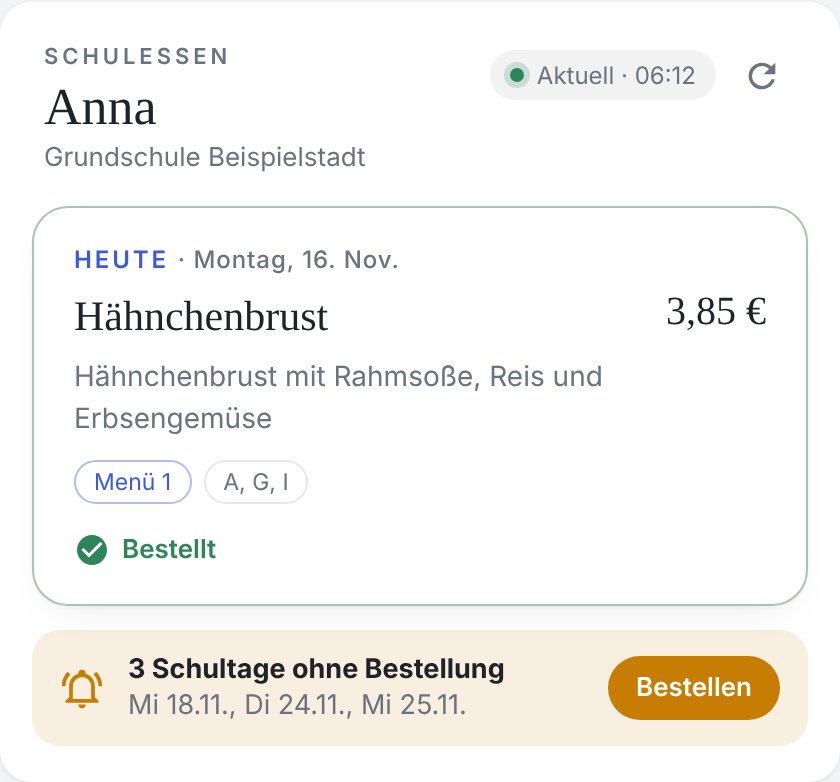
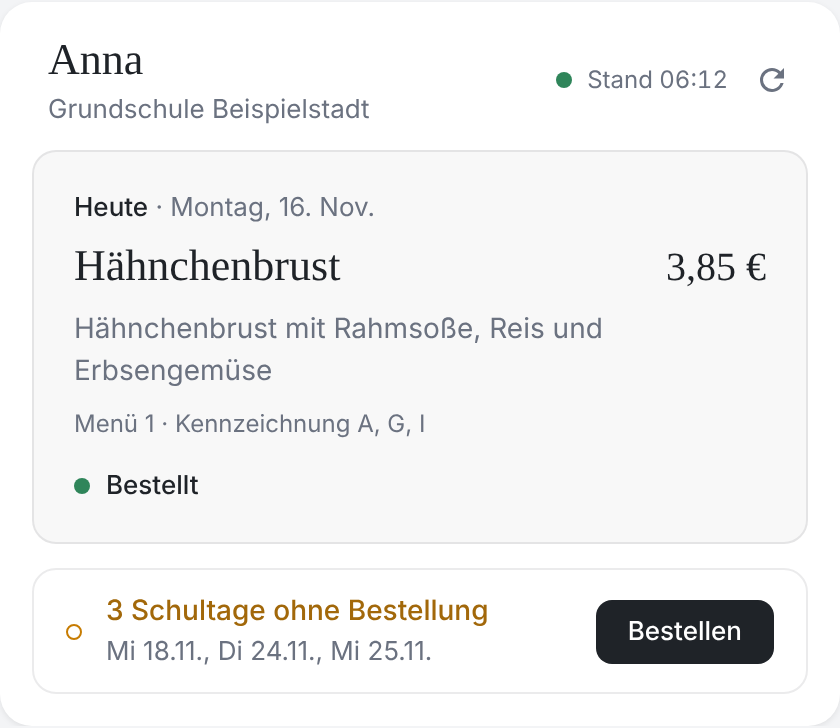
Karte überarbeitet: ruhigere Flächen, Status-Punkt pro Tag, keine Pillen und Großbuchstaben

diff --git a/custom_components/schulessen/www/schulessen-card.js b/custom_components/schulessen/www/schulessen-card.js
@@ -1,4 +1,4 @@
-/* Schulessen-Karte für Home Assistant (wird von den Schulessen-Integrationen mitgeliefert). */
+/* Schulessen-Karte für Home Assistant */
 (() => {
   const TAG = "schulessen-card";
   if (customElements.get(TAG)) return;
@@ -71,13 +71,8 @@
     if (tag.menues.some((m) => m.bestellt)) return "ok";
     return "offen";
   };
-  const STATUS = {
-    ok: ["Bestellt", "mdi:check-circle"],
-    offen: ["Nicht bestellt", "mdi:alert-circle"],
-    pause: ["Abbestellt", "mdi:minus-circle"],
-    frei: ["Feiertag", "mdi:party-popper"],
-    leer: ["Kein Speiseplan", "mdi:calendar-blank"],
-  };
+  const STATUS = { ok: "Bestellt", offen: "Nicht bestellt", pause: "Abbestellt", frei: "Feiertag", leer: "Kein Speiseplan", vorbei: "" };
+  const punkt = (k) => `<i class="dot ${k}" aria-hidden="true"></i>`;
 
   class SchulessenCard extends HTMLElement {
     constructor() {
@@ -94,7 +89,7 @@
     }
 
     setConfig(config) {
-      if (!config.entity) throw new Error("Bitte die Stand-Entität der Schulessen-Integration angeben (entity).");
+      if (!config.entity) throw new Error("entity fehlt: Stand-Sensor der Schulessen-Integration angeben");
       this._config = { variante: "voll", ...config };
       this._sig = "";
       if (this._hass) this._render();
@@ -128,7 +123,7 @@
       const b = this.shadowRoot.querySelector(".refresh");
       if (b) {
         b.classList.add("dreht");
-        setTimeout(() => b.classList.remove("dreht"), 1200);
+        setTimeout(() => b.classList.remove("dreht"), 600);
       }
     }
 
@@ -136,7 +131,7 @@
       if (!this._hass || !this._config) return;
       const st = this._hass.states[this._config.entity];
       if (!st) {
-        this.shadowRoot.innerHTML = `<ha-card><div class="leerhinweis">Entität ${esc(this._config.entity)} nicht gefunden.</div></ha-card>`;
+        this.shadowRoot.innerHTML = `<ha-card><div class="leerhinweis">Entität ${esc(this._config.entity)} nicht gefunden</div></ha-card>`;
         return;
       }
       const a = st.attributes;
@@ -168,14 +163,13 @@
         <ha-card class="${kompakt ? "kompakt" : ""}">
           <header>
             <div class="kopf">
-              <div class="kicker">Schulessen</div>
               <div class="name">${esc(titel)}</div>
               ${a.einrichtung ? `<div class="einrichtung">${esc(a.einrichtung)}</div>` : ""}
             </div>
             <div class="aktionen">
-              <span class="pille ${live ? "live" : "cache"}" title="${stand ? "Stand " + stand.toLocaleString("de-DE") : ""}">
-                <span class="punkt"></span>${live ? "Aktuell" : "Zwischenspeicher"}${
-        stand ? ` · ${String(stand.getHours()).padStart(2, "0")}:${String(stand.getMinutes()).padStart(2, "0")}` : ""
+              <span class="stand" title="${stand ? "Stand " + stand.toLocaleString("de-DE") : ""}">
+                ${punkt(live ? "live" : "cache")}${live ? "Stand" : "Zwischenspeicher"}${
+        stand ? ` ${String(stand.getHours()).padStart(2, "0")}:${String(stand.getMinutes()).padStart(2, "0")}` : ""
       }
               </span>
               <button class="refresh" title="Jetzt aktualisieren" aria-label="Aktualisieren"><ha-icon icon="mdi:refresh"></ha-icon></button>
@@ -185,7 +179,7 @@
           ${this._offenHtml(offen, a.portal, kompakt)}
           ${kompakt ? "" : this._wocheHtml(tage, heute)}
           ${kompakt ? "" : this._detailHtml(tage)}
-          ${!kompakt && a.portal ? `<footer><a class="link" href="${esc(a.portal)}" target="_blank" rel="noopener"><ha-icon icon="mdi:open-in-new"></ha-icon>Bestellportal öffnen</a></footer>` : ""}
+          ${!kompakt && a.portal ? `<footer><a class="link" href="${esc(a.portal)}" target="_blank" rel="noopener">Bestellportal öffnen<ha-icon icon="mdi:arrow-top-right"></ha-icon></a></footer>` : ""}
         </ha-card>`;
 
       this.shadowRoot.querySelector(".refresh")?.addEventListener("click", () => this._aktualisieren());
@@ -206,19 +200,17 @@
 
     _heroHtml(tag, label) {
       if (!tag) {
-        return `<section class="hero leer"><div class="label">Demnächst</div><div class="gericht">Kein Speiseplan verfügbar</div></section>`;
+        return `<section class="hero leer"><div class="label">Demnächst</div><div class="gericht">Noch kein Speiseplan</div></section>`;
       }
       const k = art(tag);
-      const [stText, stIcon] = STATUS[k];
+      const stText = STATUS[k];
       const b = (tag.menues || []).find((m) => m.bestellt);
       const schluss = parseZeit(tag.bestellschluss);
       let gericht, text, chips = "", rechts = "";
       if (k === "ok") {
         gericht = esc(b.kurz || b.name);
         text = b.kurz && b.text ? esc(b.text) : b.text && b.text !== b.name ? esc(b.text) : "";
-        chips = [`<span class="chip linie">${esc(b.name)}</span>`]
-          .concat(b.kennzeichnung ? [`<span class="chip" title="Kennzeichnung">${esc(b.kennzeichnung)}</span>`] : [])
-          .join("");
+        chips = [esc(b.name)].concat(b.kennzeichnung ? [`Kennzeichnung ${esc(b.kennzeichnung)}`] : []).join(" · ");
         rechts = b.preis !== null && b.preis !== undefined ? `<div class="preis">${preis(b.preis)}</div>` : "";
       } else if (k === "pause") {
         gericht = "Abbestellt";
@@ -229,18 +221,18 @@
       }
       return `
         <section class="hero ${k}">
-          <div class="label">${label} <span class="datum">· ${langDatum(tag.datum)}</span></div>
+          <div class="label">${label}<span class="datum"> · ${langDatum(tag.datum)}</span></div>
           <div class="zeile">
             <div class="haupt">
               <div class="gericht">${gericht}</div>
               ${text ? `<div class="beschreibung">${text}</div>` : ""}
-              ${chips ? `<div class="chips">${chips}</div>` : ""}
+              ${chips ? `<div class="meta">${chips}</div>` : ""}
             </div>
             ${rechts}
           </div>
           <div class="fuss">
-            <span class="status ${k}"><ha-icon icon="${stIcon}"></ha-icon>${stText}</span>
-            ${schluss && k === "offen" ? `<span class="frist"><ha-icon icon="mdi:timer-sand"></ha-icon>Bestellschluss ${zeitText(schluss)} · ${restZeit(schluss)}</span>` : ""}
+            <span class="status ${k}">${punkt(k)}${stText}</span>
+            ${schluss && k === "offen" ? `<span class="frist">Bestellschluss ${zeitText(schluss)}, ${restZeit(schluss)}</span>` : ""}
           </div>
         </section>`;
     }
@@ -248,13 +240,13 @@
     _offenHtml(offen, portal, kompakt) {
       if (!offen.length) {
         const sp = this._spanne === 1 ? "Morgen ist" : this._spanne ? `In den nächsten ${this._spanne} Tagen ist` : "Alle kommenden Schultage sind";
-        return kompakt ? "" : `<div class="hinweis gut"><ha-icon icon="mdi:check-decagram"></ha-icon>${this._spanne ? sp + " alles bestellt." : sp + " versorgt."}</div>`;
+        return kompakt ? "" : `<div class="hinweis gut">${punkt("ok")}${this._spanne ? sp + " alles bestellt" : sp + " bestellt"}</div>`;
       }
       const liste = offen.slice(0, kompakt ? 3 : 8).map((t) => kurzDatum(t.datum)).join(", ");
       const mehr = offen.length > (kompakt ? 3 : 8) ? ` und ${offen.length - (kompakt ? 3 : 8)} weitere` : "";
       return `
         <div class="hinweis warn">
-          <ha-icon icon="mdi:bell-ring-outline"></ha-icon>
+          ${punkt("offen")}
           <div class="hinweistext"><strong>${offen.length} ${offen.length === 1 ? "Schultag" : "Schultage"} ohne Bestellung${this._spanne ? (this._spanne === 1 ? " (morgen)" : ` (nächste ${this._spanne} Tage)`) : ""}</strong><span>${liste}${mehr}</span></div>
           ${portal ? `<a class="knopf" href="${esc(portal)}" target="_blank" rel="noopener">Bestellen</a>` : ""}
         </div>`;
@@ -275,11 +267,10 @@
         const k = iso < heute ? "vorbei" : art(t);
         const b = t && (t.menues || []).find((m) => m.bestellt);
         const inhalt =
-          k === "ok" ? esc(b.kurz || b.name) : k === "pause" ? "Abbestellt" : k === "frei" ? "Feiertag" : k === "offen" ? "Nicht bestellt" : k === "vorbei" ? "–" : "Kein Plan";
+          k === "ok" ? esc(b.kurz || b.name) : k === "pause" ? "Abbestellt" : k === "frei" ? "Feiertag" : k === "offen" ? "Nicht bestellt" : k === "vorbei" ? "" : "Kein Plan";
         zellen.push(`
           <button class="tag ${k} ${iso === heute ? "heute" : ""} ${this._auswahl === iso ? "aktiv" : ""}" data-tag="${iso}" ${t ? "" : "disabled"}>
-            <span class="wt">${WT[d.getDay()]}</span>
-            <span class="dt">${d.getDate()}.${d.getMonth() + 1}.</span>
+            <span class="tkopf"><span class="wt">${WT[d.getDay()]} ${d.getDate()}.${d.getMonth() + 1}.</span>${k === "vorbei" ? "" : punkt(k)}</span>
             <span class="was">${inhalt}</span>
             ${b && b.name && (b.kurz || "") !== b.name ? `<span class="linie">${esc(b.name)}</span>` : ""}
           </button>`);
@@ -312,18 +303,18 @@
           <div class="menue ${m.bestellt ? "gewaehlt" : ""}">
             <div class="mkopf">
               <span class="mname">${esc(m.name)}</span>
-              ${m.bestellt ? `<span class="haken"><ha-icon icon="mdi:check"></ha-icon>bestellt</span>` : ""}
+              ${m.bestellt ? `<span class="haken">${punkt("ok")}bestellt</span>` : ""}
               <span class="mpreis">${preis(m.preis)}</span>
             </div>
             <div class="mtext">${esc(m.kurz && m.text ? m.text : m.text || m.kurz || "")}</div>
-            ${m.kennzeichnung ? `<div class="mkenn">Kennzeichnung: ${esc(m.kennzeichnung)}</div>` : ""}
+            ${m.kennzeichnung ? `<div class="mkenn">Kennzeichnung ${esc(m.kennzeichnung)}</div>` : ""}
           </div>`
         )
         .join("");
       return `
         <section class="detail">
           <div class="detailkopf">${langDatum(t.datum)}${
-        schluss ? `<span class="leise">Bestellschluss ${zeitText(schluss)}${schluss > new Date() ? " · " + restZeit(schluss) : ""}</span>` : ""
+        schluss ? `<span class="leise">Bestellschluss ${zeitText(schluss)}${schluss > new Date() ? ", " + restZeit(schluss) : ""}</span>` : ""
       }</div>
           ${menues || `<div class="leise">Keine Angebote</div>`}
         </section>`;
@@ -332,111 +323,108 @@
 
   const CSS = `
     :host { --se-akzent: var(--primary-color); --se-ok: var(--success-color, #2e7d32); --se-warn: var(--warning-color, #c77c02);
-            --se-leise: var(--secondary-text-color); --se-linie: var(--divider-color, rgba(127,127,127,.18));
+            --se-warn-text: color-mix(in srgb, var(--se-warn) 78%, var(--primary-text-color));
+            --se-leise: var(--secondary-text-color); --se-linie: color-mix(in srgb, var(--primary-text-color) 9%, transparent);
+            --se-flaeche: color-mix(in srgb, var(--primary-text-color) 3%, transparent);
+            --se-ease: cubic-bezier(.2, 0, 0, 1);
             --se-serif: "Iowan Old Style", "Palatino Linotype", Palatino, "Book Antiqua", Georgia, serif; }
-    ha-card { overflow: hidden; padding: 0;
-              background-image: radial-gradient(130% 90% at 0% 0%, color-mix(in srgb, var(--se-akzent) 13%, transparent), transparent 55%); }
-    header { display:flex; justify-content:space-between; align-items:flex-start; gap:12px; padding:20px 22px 16px; }
-    .kicker { font-size:11px; letter-spacing:.18em; text-transform:uppercase; color:var(--se-leise); font-weight:600; }
-    .name { font-family:var(--se-serif); font-size:26px; line-height:1.15; margin-top:4px; color:var(--primary-text-color); }
-    .einrichtung { font-size:13px; color:var(--se-leise); margin-top:3px; }
-    .aktionen { display:flex; align-items:center; gap:6px; flex-shrink:0; }
-    .pille { display:inline-flex; align-items:center; gap:6px; font-size:12px; padding:5px 10px; border-radius:999px;
-             background: color-mix(in srgb, var(--primary-text-color) 6%, transparent); color:var(--se-leise); white-space:nowrap; }
-    .punkt { width:7px; height:7px; border-radius:50%; background:var(--se-ok); box-shadow:0 0 0 3px color-mix(in srgb, var(--se-ok) 20%, transparent); }
-    .pille.cache .punkt { background:var(--se-warn); box-shadow:0 0 0 3px color-mix(in srgb, var(--se-warn) 20%, transparent); }
+    ha-card { overflow: hidden; padding: 0; }
     button { font:inherit; color:inherit; background:none; border:0; cursor:pointer; }
-    .refresh { width:34px; height:34px; border-radius:50%; display:grid; place-items:center; color:var(--se-leise); transition:background .2s; }
-    .refresh:hover { background: color-mix(in srgb, var(--primary-text-color) 8%, transparent); }
-    .refresh ha-icon { --mdc-icon-size:20px; transition: transform 1.2s ease; }
-    .refresh.dreht ha-icon { transform: rotate(360deg); }
+    button:focus-visible, a:focus-visible { outline:2px solid var(--se-akzent); outline-offset:2px; }
 
-    .hero { margin:0 16px; padding:18px 20px; border-radius:18px; border:1px solid var(--se-linie);
-            background: var(--card-background-color, #fff); position:relative; box-shadow: 0 1px 2px rgba(0,0,0,.04), 0 8px 24px -12px rgba(0,0,0,.12); }
-    .hero.ok { border-color: color-mix(in srgb, var(--se-ok) 35%, var(--se-linie)); }
-    .hero.offen { border-color: color-mix(in srgb, var(--se-warn) 45%, var(--se-linie)); }
-    .label { font-size:12px; letter-spacing:.12em; text-transform:uppercase; font-weight:600; color:var(--se-akzent); }
-    .label .datum { color:var(--se-leise); letter-spacing:.04em; text-transform:none; font-weight:500; }
-    .zeile { display:flex; justify-content:space-between; gap:16px; align-items:flex-start; margin-top:8px; }
-    .gericht { font-family:var(--se-serif); font-size:24px; line-height:1.25; color:var(--primary-text-color); }
-    .beschreibung { margin-top:6px; font-size:14px; line-height:1.5; color:var(--se-leise); }
-    .preis { font-family:var(--se-serif); font-size:20px; white-space:nowrap; color:var(--primary-text-color); }
-    .chips { display:flex; flex-wrap:wrap; gap:6px; margin-top:10px; }
-    .chip { font-size:11.5px; padding:3px 9px; border-radius:999px; border:1px solid var(--se-linie); color:var(--se-leise); }
-    .chip.linie { color:var(--se-akzent); border-color: color-mix(in srgb, var(--se-akzent) 40%, transparent); }
-    .fuss { display:flex; flex-wrap:wrap; gap:8px 16px; margin-top:14px; align-items:center; }
-    .status, .frist { display:inline-flex; align-items:center; gap:6px; font-size:13px; font-weight:600; }
-    .status ha-icon, .frist ha-icon { --mdc-icon-size:18px; }
-    .status.ok { color:var(--se-ok); } .status.offen { color:var(--se-warn); } .status.pause, .status.leer, .status.frei { color:var(--se-leise); }
-    .frist { color:var(--se-leise); font-weight:500; }
+    .dot { display:inline-block; width:8px; height:8px; border-radius:50%; flex-shrink:0; box-sizing:border-box; }
+    .dot.ok, .dot.live { background:var(--se-ok); }
+    .dot.offen { border:1.5px solid var(--se-warn); }
+    .dot.cache { border:1.5px solid var(--se-leise); }
+    .dot.pause, .dot.frei, .dot.leer { background:color-mix(in srgb, var(--se-leise) 45%, transparent); }
 
-    .hinweis { display:flex; align-items:center; gap:12px; margin:12px 16px 0; padding:12px 14px; border-radius:14px; font-size:13.5px; }
-    .hinweis ha-icon { --mdc-icon-size:22px; flex-shrink:0; }
-    .hinweis.warn { background: color-mix(in srgb, var(--se-warn) 12%, transparent); color: var(--primary-text-color); }
-    .hinweis.warn ha-icon { color: var(--se-warn); }
-    .hinweis.gut { color: var(--se-leise); background: color-mix(in srgb, var(--se-ok) 7%, transparent); }
-    .hinweis.gut ha-icon { color: var(--se-ok); }
-    .hinweistext { display:flex; flex-direction:column; gap:2px; flex:1; min-width:0; }
-    .hinweistext span { color:var(--se-leise); }
-    .knopf { text-decoration:none; font-weight:600; font-size:13px; padding:8px 14px; border-radius:999px; white-space:nowrap;
-             background: var(--se-warn); color: #fff; }
+    header { display:flex; justify-content:space-between; align-items:center; gap:12px; padding:16px 16px 12px 24px; }
+    .name { font-family:var(--se-serif); font-size:22px; line-height:1.2; color:var(--primary-text-color); }
+    .einrichtung { font-size:13px; color:var(--se-leise); margin-top:4px; }
+    .aktionen { display:flex; align-items:center; gap:4px; flex-shrink:0; }
+    .stand { display:inline-flex; align-items:center; gap:8px; font-size:12px; color:var(--se-leise); white-space:nowrap;
+             font-variant-numeric:tabular-nums; }
+    .refresh { width:36px; height:36px; border-radius:8px; display:grid; place-items:center; color:var(--se-leise);
+               transition:background-color .15s var(--se-ease); }
+    .refresh:hover { background:var(--se-flaeche); }
+    .refresh ha-icon { --mdc-icon-size:18px; }
+    .refresh.dreht ha-icon { transform:rotate(360deg); transition:transform .6s var(--se-ease); }
 
-    .woche { margin:18px 16px 0; }
-    .wochenkopf { display:flex; align-items:center; justify-content:space-between; margin-bottom:10px; }
+    .hero { margin:0 16px; padding:20px; border-radius:12px; background:var(--se-flaeche); border:1px solid var(--se-linie); }
+    .label { font-size:13px; font-weight:500; color:var(--primary-text-color); }
+    .label .datum { color:var(--se-leise); font-weight:400; }
+    .zeile { display:flex; justify-content:space-between; gap:16px; align-items:baseline; margin-top:8px; }
+    .gericht { font-family:var(--se-serif); font-size:26px; line-height:1.2; color:var(--primary-text-color); }
+    .beschreibung { margin-top:8px; font-size:14px; line-height:1.5; color:var(--se-leise); }
+    .preis { font-family:var(--se-serif); font-size:20px; white-space:nowrap; color:var(--primary-text-color); font-variant-numeric:tabular-nums; }
+    .meta { margin-top:8px; font-size:12px; color:var(--se-leise); }
+    .fuss { display:flex; flex-wrap:wrap; gap:8px 16px; margin-top:16px; align-items:center; font-size:13px; }
+    .status { display:inline-flex; align-items:center; gap:8px; font-weight:500; color:var(--primary-text-color); }
+    .status.offen { color:var(--se-warn-text); }
+    .status.pause, .status.leer, .status.frei { color:var(--se-leise); }
+    .frist { color:var(--se-leise); font-variant-numeric:tabular-nums; }
+
+    .hinweis { display:flex; align-items:center; gap:12px; margin:12px 16px 0; padding:12px 16px; border-radius:12px; font-size:14px;
+               border:1px solid var(--se-linie); }
+    .hinweis.gut { color:var(--se-leise); font-size:13px; border:0; padding:4px 20px; }
+    .hinweistext { display:flex; flex-direction:column; gap:4px; flex:1; min-width:0; }
+    .hinweistext strong { font-weight:500; color:var(--se-warn-text); }
+    .hinweistext span { color:var(--se-leise); font-size:13px; }
+    .knopf { text-decoration:none; font-weight:500; font-size:13px; padding:8px 16px; border-radius:8px; white-space:nowrap;
+             background:var(--primary-text-color); color:var(--card-background-color, #fff); transition:opacity .15s var(--se-ease); }
+    .knopf:hover { opacity:.85; }
+
+    .woche { margin:20px 16px 0; }
+    .wochenkopf { display:flex; align-items:center; justify-content:space-between; margin-bottom:8px; }
     .kw { font-family:var(--se-serif); font-size:18px; display:flex; flex-direction:column; align-items:center; line-height:1.2; }
-    .kw span { font-family: inherit; font-size:11px; letter-spacing:.12em; text-transform:uppercase; color:var(--se-leise); font-family: var(--paper-font-body1_-_font-family, sans-serif); }
-    .nav { width:34px; height:34px; border-radius:50%; display:grid; place-items:center; color:var(--se-leise); }
-    .nav:hover:not([disabled]) { background: color-mix(in srgb, var(--primary-text-color) 8%, transparent); }
+    .kw span { font-family:var(--paper-font-body1_-_font-family, sans-serif); font-size:12px; color:var(--se-leise); margin-top:2px; }
+    .nav { width:36px; height:36px; border-radius:8px; display:grid; place-items:center; color:var(--se-leise);
+           transition:background-color .15s var(--se-ease); }
+    .nav:hover:not([disabled]) { background:var(--se-flaeche); }
     .nav[disabled] { opacity:.3; cursor:default; }
     .tage { display:grid; grid-template-columns:repeat(5, minmax(0,1fr)); gap:8px; }
-    .tag { text-align:left; padding:10px 10px 12px; border-radius:14px; border:1px solid var(--se-linie); min-height:96px;
-           display:flex; flex-direction:column; gap:2px; transition: transform .15s, border-color .15s, background .15s; }
-    .tag:hover:not([disabled]) { transform: translateY(-1px); border-color: color-mix(in srgb, var(--se-akzent) 45%, var(--se-linie)); }
-    .tag[disabled] { cursor:default; opacity:.55; }
-    .tag .wt { font-size:11px; letter-spacing:.14em; text-transform:uppercase; color:var(--se-leise); font-weight:600; }
-    .tag .dt { font-family:var(--se-serif); font-size:17px; }
-    .tag .was { font-size:12.5px; line-height:1.35; margin-top:4px; display:-webkit-box; -webkit-line-clamp:3; -webkit-box-orient:vertical; overflow:hidden; }
-    .tag .linie { font-size:11px; color:var(--se-akzent); margin-top:auto; padding-top:4px; }
-    .tag.ok { background: color-mix(in srgb, var(--se-ok) 6%, transparent); }
-    .tag.ok .was { color: var(--primary-text-color); }
-    .tag.offen { border-color: color-mix(in srgb, var(--se-warn) 50%, var(--se-linie)); background: color-mix(in srgb, var(--se-warn) 8%, transparent); }
-    .tag.offen .was { color: var(--se-warn); font-weight:600; }
-    .tag.pause .was, .tag.frei .was, .tag.leer .was, .tag.vorbei .was { color: var(--se-leise); }
-    .tag.vorbei { opacity:.5; }
-    .tag.heute { box-shadow: inset 0 0 0 1.5px var(--se-akzent); }
-    .tag.aktiv { border-color: var(--se-akzent); background: color-mix(in srgb, var(--se-akzent) 10%, transparent); }
+    .tag { text-align:left; padding:12px; border-radius:10px; border:1px solid var(--se-linie); min-height:96px;
+           display:flex; flex-direction:column; gap:4px; transition:background-color .15s var(--se-ease), border-color .15s var(--se-ease); }
+    .tag:hover:not([disabled]) { background:var(--se-flaeche); }
+    .tag[disabled] { cursor:default; }
+    .tkopf { display:flex; align-items:center; justify-content:space-between; gap:8px; }
+    .tag .wt { font-size:12px; color:var(--se-leise); font-variant-numeric:tabular-nums; }
+    .tag .was { font-size:13px; line-height:1.4; display:-webkit-box; -webkit-line-clamp:3; -webkit-box-orient:vertical; overflow:hidden;
+                color:var(--primary-text-color); }
+    .tag .linie { font-size:12px; color:var(--se-leise); margin-top:auto; padding-top:4px; }
+    .tag.offen .was { color:var(--se-warn-text); }
+    .tag.pause .was, .tag.frei .was, .tag.leer .was { color:var(--se-leise); }
+    .tag.vorbei { opacity:.45; }
+    .tag.heute { border-color:color-mix(in srgb, var(--se-akzent) 55%, transparent); }
+    .tag.aktiv { background:var(--se-flaeche); border-color:var(--se-akzent); }
 
-    .tipp { text-align:center; font-size:12px; color:var(--se-leise); margin:12px 16px 4px; }
-    .detail { margin:14px 16px 0; padding:16px 18px; border-radius:16px; border:1px solid var(--se-linie); }
-    .detailkopf { font-family:var(--se-serif); font-size:18px; display:flex; flex-wrap:wrap; gap:4px 12px; align-items:baseline; margin-bottom:6px; }
-    .leise { font-size:12.5px; color:var(--se-leise); font-family: var(--paper-font-body1_-_font-family, sans-serif); }
+    .tipp { text-align:center; font-size:12px; color:var(--se-leise); margin:12px 16px 0; }
+    .detail { margin:12px 16px 0; padding:16px 20px; border-radius:12px; border:1px solid var(--se-linie); }
+    .detailkopf { font-family:var(--se-serif); font-size:18px; display:flex; flex-wrap:wrap; gap:4px 12px; align-items:baseline; margin-bottom:4px; }
+    .leise { font-size:13px; color:var(--se-leise); font-family:var(--paper-font-body1_-_font-family, sans-serif); font-variant-numeric:tabular-nums; }
     .menue { padding:12px 0; border-top:1px solid var(--se-linie); }
-    .menue:first-of-type { border-top:0; }
-    .mkopf { display:flex; align-items:center; gap:10px; }
-    .mname { font-size:12px; letter-spacing:.1em; text-transform:uppercase; font-weight:700; color:var(--se-leise); }
-    .menue.gewaehlt .mname { color: var(--se-ok); }
-    .haken { display:inline-flex; align-items:center; gap:3px; font-size:11.5px; font-weight:600; color:var(--se-ok);
-             padding:2px 8px; border-radius:999px; background: color-mix(in srgb, var(--se-ok) 12%, transparent); }
-    .haken ha-icon { --mdc-icon-size:14px; }
-    .mpreis { margin-left:auto; font-family:var(--se-serif); font-size:15px; }
+    .detailkopf + .menue { border-top:0; }
+    .mkopf { display:flex; align-items:center; gap:12px; }
+    .mname { font-size:13px; font-weight:500; color:var(--se-leise); }
+    .menue.gewaehlt .mname { color:var(--primary-text-color); }
+    .haken { display:inline-flex; align-items:center; gap:8px; font-size:12px; color:var(--se-leise); }
+    .mpreis { margin-left:auto; font-family:var(--se-serif); font-size:16px; font-variant-numeric:tabular-nums; }
     .mtext { font-size:14px; line-height:1.5; margin-top:4px; }
     .mkenn { font-size:12px; color:var(--se-leise); margin-top:4px; }
 
-    footer { padding:14px 22px 18px; display:flex; justify-content:flex-end; }
-    .link { display:inline-flex; align-items:center; gap:6px; font-size:13px; font-weight:600; text-decoration:none; color:var(--se-akzent); }
+    footer { padding:16px 24px 20px; display:flex; justify-content:flex-end; }
+    .link { display:inline-flex; align-items:center; gap:4px; font-size:13px; font-weight:500; text-decoration:none; color:var(--se-akzent); }
     .link ha-icon { --mdc-icon-size:16px; }
-    ha-card > :last-child:not(footer) { margin-bottom:18px; }
-    ha-card.kompakt .hero { margin-bottom:0; }
-    ha-card.kompakt .gericht { font-size:21px; }
-    .leerhinweis { padding:20px; color:var(--se-leise); }
+    ha-card > :last-child:not(footer) { margin-bottom:16px; }
+    ha-card.kompakt .gericht { font-size:22px; }
+    .leerhinweis { padding:20px 24px; color:var(--se-leise); }
 
     @media (max-width: 560px) {
-      .tage { grid-template-columns: 1fr; }
-      .tag { min-height:0; flex-direction:row; flex-wrap:wrap; align-items:baseline; gap:4px 10px; }
-      .tag .was { flex-basis:100%; -webkit-line-clamp:2; margin-top:0; }
-      .tag .linie { margin-top:0; padding-top:0; }
-      .gericht { font-size:21px; }
-      header { padding:18px 18px 14px; }
+      .tage { grid-template-columns:1fr; }
+      .tag { min-height:0; }
+      .tag .was { -webkit-line-clamp:2; }
+      .gericht { font-size:22px; }
+      header { padding:12px 12px 12px 20px; }
     }
   `;
 
@@ -446,7 +434,7 @@
     window.customCards.push({
       type: TAG,
       name: "Schulessen",
-      description: "Speiseplan, Bestellstatus und Wochenübersicht der Schulessen-Integrationen",
+      description: "Speiseplan, Bestellstatus und Wochenübersicht",
       preview: false,
     });
   }

diff --git a/custom_components/schulessen/dashboard.py b/custom_components/schulessen/dashboard.py
@@ -15,7 +15,7 @@ from .const import CONF_DASHBOARD, DASHBOARD_ANGELEGT, DOMAIN
 _LOGGER = logging.getLogger(__name__)
 
 KARTE = "schulessen-card.js"
-KARTE_VERSION = "1.2.0"
+KARTE_VERSION = "1.3.0"
 DASHBOARD_URL = "schulessen"
 
 
